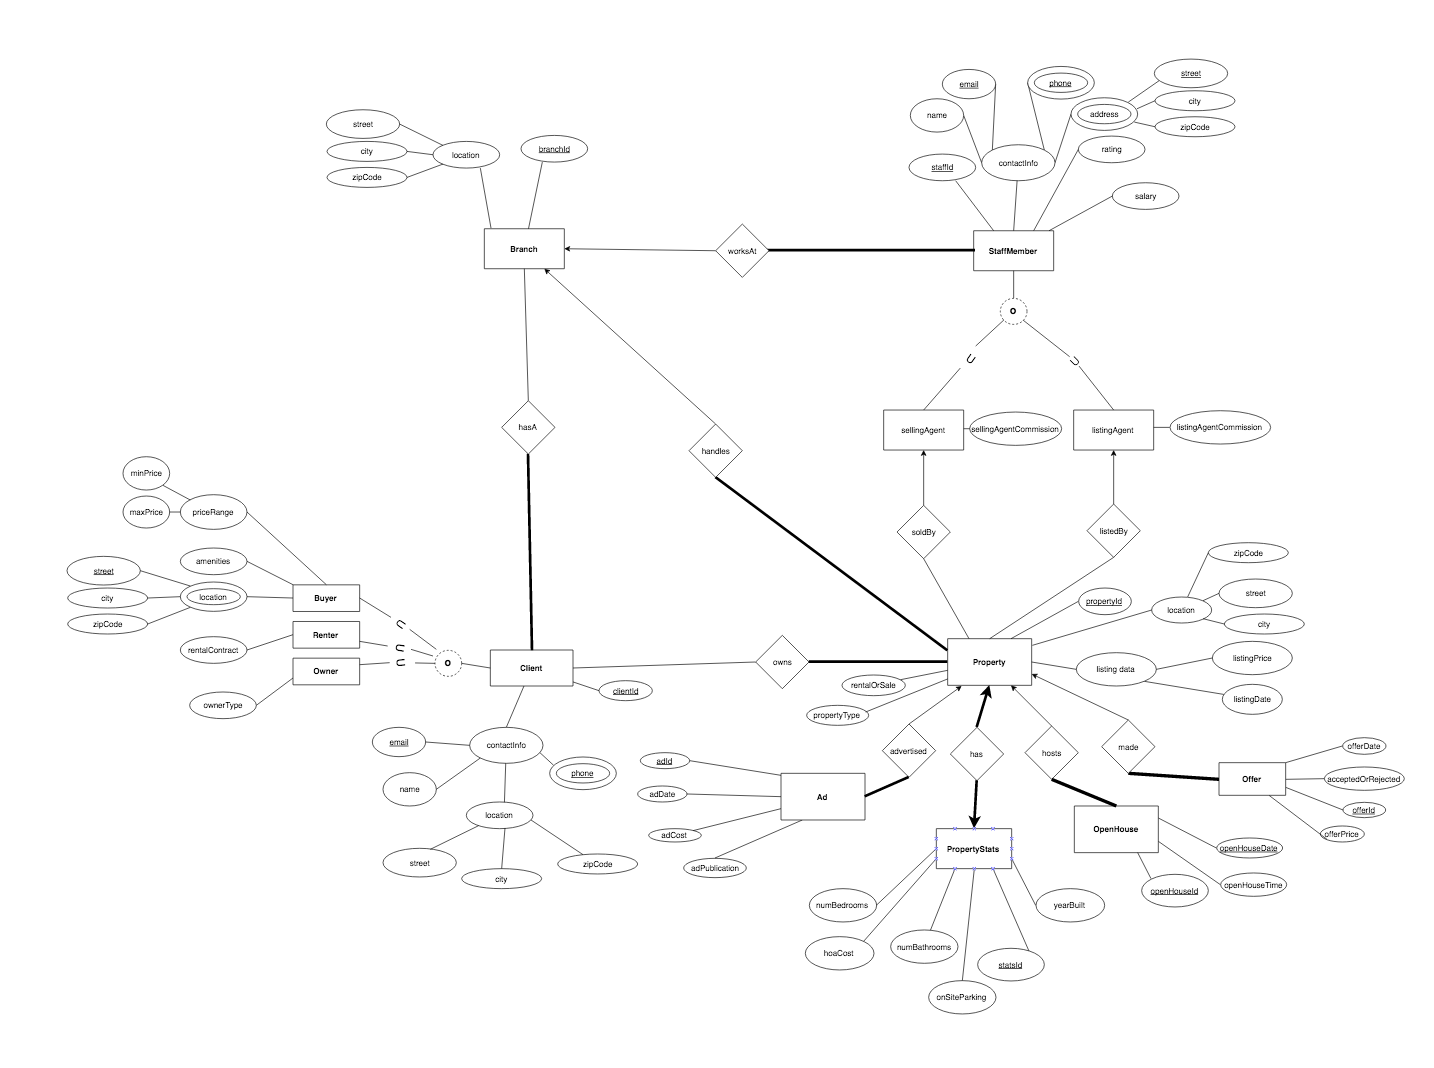
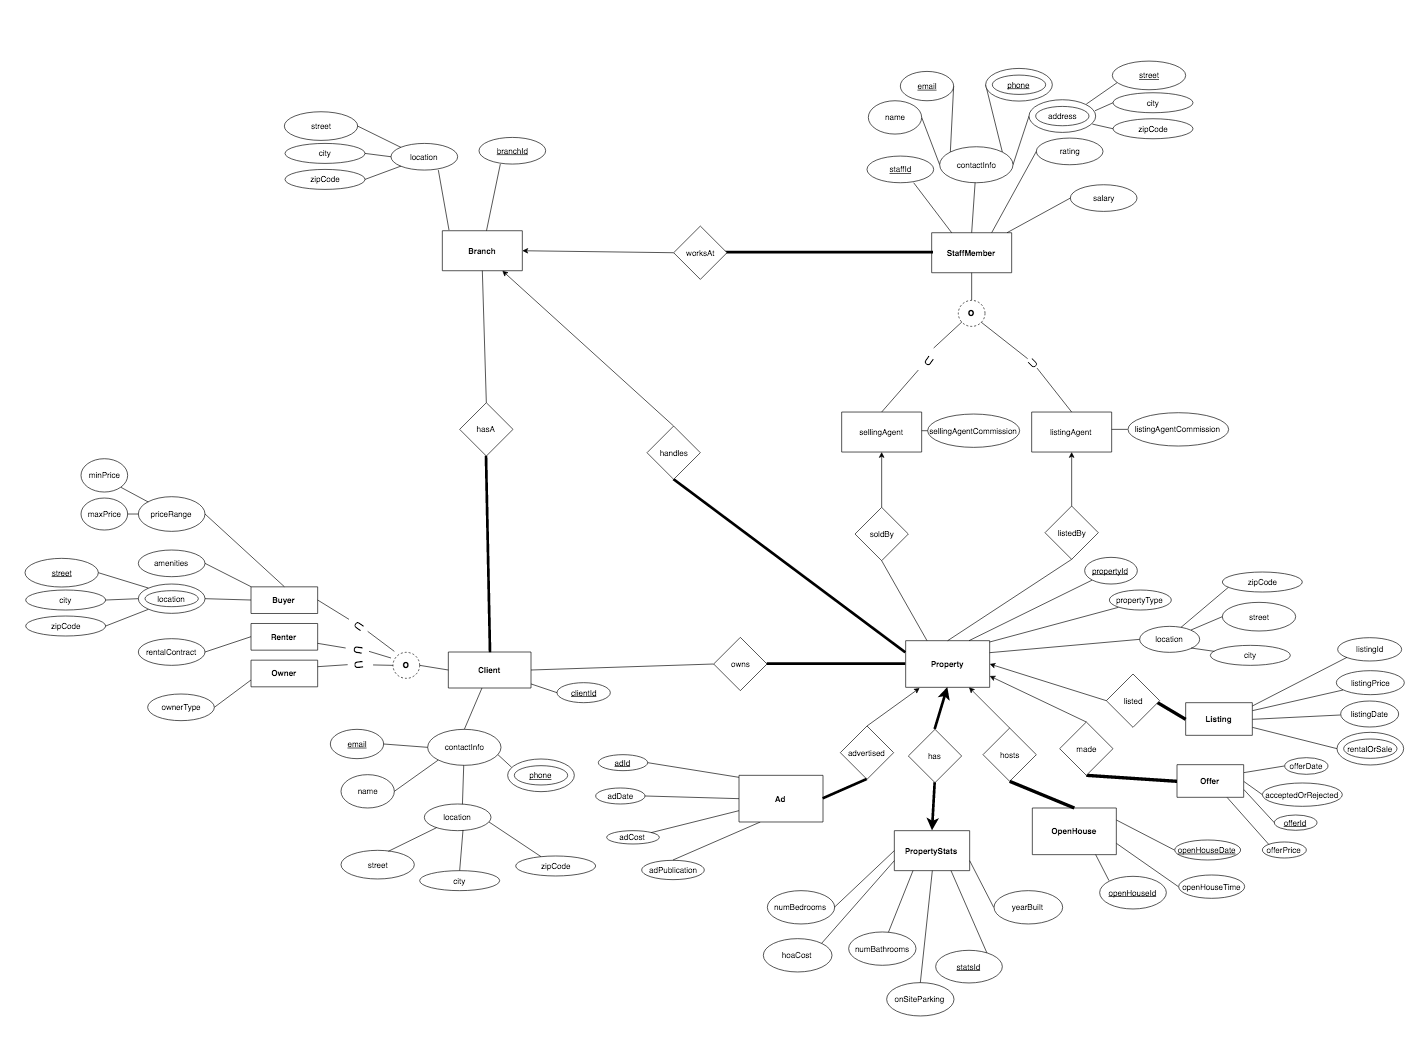
added listing entity

diff --git a/website/index.html b/website/index.html
@@ -131,6 +131,7 @@
           <li>PropertyStats has a <strong>total relationship</strong> with property because every property has property stats and all property stats have their property.</li>
           <li>OpenHouse has a <strong>total relationship</strong> with property because every open house is for a specific property</li>
           <li>Offer has a <strong>total relationship</strong> with property because every offer is for a property.</li>
+          <li>Listing has a <strong>total relationship</strong> with property because every listing is for a property.</li>
         </ul>
       </div>
     </div>
@@ -142,7 +143,7 @@
       </div>
       <div class="col-md-6">
         <h2>Business Constraints</h2>
-        <h5>Every entity (Client, Branch, StaffMember, Property, Ad, PropertyStats, OpenHouse and Offer) must have a unique integer-based ID</h5>
+        <h5>Every entity (Client, Branch, StaffMember, Property, Ad, PropertyStats, OpenHouse, Offer and Listing) must have a unique integer-based ID</h5>
         <ul class="no-list-style">
           <li>The ID is used to create relationships between entities and relationships as well as for identification purposes</li>
         </ul>
@@ -168,7 +169,7 @@
       </div>
       <div class="col-md-6">
         <h2>Business Constraints</h2>
-        <h5>Every entity (Client, Branch, StaffMember, Property, Ad, PropertyStats, OpenHouse and Offer) must have a unique integer-based ID</h5>
+        <h5>Every entity (Client, Branch, StaffMember, Property, Ad, PropertyStats, OpenHouse, Offer and Listing) must have a unique integer-based ID</h5>
         <ul class="no-list-style">
           <li>The ID is used to create relationships between entities and relationships as well as for identification purposes</li>
         </ul>
@@ -201,12 +202,11 @@
         <p><strong>Details & Clarification:</strong></p>
         <ul>
           <li>propertyType is { House, Apt, Townhome, Condo, Manufactured, Lot }</p>
-          <li>listingType is { rental, sale }</li>
         </ul>
       </div>
       <div class="col-md-6">
         <h2>Business Constraints</h2>
-        <h5>Every entity (Client, Branch, StaffMember, Property, Ad, PropertyStats, OpenHouse and Offer) must have a unique integer-based ID</h5>
+        <h5>Every entity (Client, Branch, StaffMember, Property, Ad, PropertyStats, OpenHouse, Offer and Listing) must have a unique integer-based ID</h5>
         <ul class="no-list-style">
           <li>The ID is used to create relationships between entities and relationships as well as for identification purposes</li>
         </ul>
@@ -228,7 +228,7 @@
       </div>
       <div class="col-md-6">
         <h2>Business Constraints</h2>
-        <h5>Every entity (Client, Branch, StaffMember, Property, Ad, PropertyStats, OpenHouse and Offer) must have a unique integer-based ID</h5>
+        <h5>Every entity (Client, Branch, StaffMember, Property, Ad, PropertyStats, OpenHouse, Offer and Listing) must have a unique integer-based ID</h5>
         <ul class="no-list-style">
           <li>The ID is used to create relationships between entities and relationships as well as for identification purposes</li>
         </ul>
@@ -246,7 +246,7 @@
       </div>
       <div class="col-md-6">
         <h2>Business Constraints</h2>
-        <h5>Every entity (Client, Branch, StaffMember, Property, Ad, PropertyStats, OpenHouse and Offer) must have a unique integer-based ID</h5>
+        <h5>Every entity (Client, Branch, StaffMember, Property, Ad, PropertyStats, OpenHouse, Offer and Listing) must have a unique integer-based ID</h5>
         <ul class="no-list-style">
           <li>The ID is used to create relationships between entities and relationships as well as for identification purposes</li>
         </ul>
@@ -264,7 +264,7 @@
       </div>
       <div class="col-md-6">
         <h2>Business Constraints</h2>
-        <h5>Every entity (Client, Branch, StaffMember, Property, Ad, PropertyStats, OpenHouse and Offer) must have a unique integer-based ID</h5>
+        <h5>Every entity (Client, Branch, StaffMember, Property, Ad, PropertyStats, OpenHouse, Offer and Listing) must have a unique integer-based ID</h5>
         <ul class="no-list-style">
           <li>The ID is used to create relationships between entities and relationships as well as for identification purposes.  OpenHouse also includes openHouseDate as part of its primary key to provide more information quickly</li>
         </ul>
@@ -282,13 +282,35 @@
       </div>
       <div class="col-md-6">
         <h2>Business Constraints</h2>
-        <h5>Every entity (Client, Branch, StaffMember, Property, Ad, PropertyStats, OpenHouse and Offer) must have a unique integer-based ID</h5>
+        <h5>Every entity (Client, Branch, StaffMember, Property, Ad, PropertyStats, OpenHouse, Offer and Listing) must have a unique integer-based ID</h5>
         <ul class="no-list-style">
           <li>The ID is used to create relationships between entities and relationships as well as for identification purposes</li>
         </ul>
         <h5>An offer cannot exist without a property</h5>
         <ul class="no-list-style">
           <li>Though somewhat obvious, it is an assumption of the business practice that every offer is for a certain property</li>
+        </ul>
+      </div>
+    </div>
+
+    <div id="entity-property" class="row container-fluid db-section">
+      <div class="col-md-6">
+        <h2>ER Diagram - Listing Entity</h2>
+        <a href="entity_Property.png"><img src="entity_Listing.png"></a>
+        <p><strong>Details & Clarification:</strong></p>
+        <ul>
+          <li>rentalOrSale is { rental, sale }</li>
+        </ul>
+      </div>
+      <div class="col-md-6">
+        <h2>Business Constraints</h2>
+        <h5>Every entity (Client, Branch, StaffMember, Property, Ad, PropertyStats, OpenHouse, Offer and Listing) must have a unique integer-based ID</h5>
+        <ul class="no-list-style">
+          <li>The ID is used to create relationships between entities and relationships as well as for identification purposes</li>
+        </ul>
+        <h5>A property can be listed for both rental and sale</h5>
+        <ul class="no-list-style">
+          <li>A property can be listed for rental, sale or both rental and sale</li>
         </ul>
       </div>
     </div>
@@ -300,7 +322,7 @@
       </div>
       <div class="col-md-6">
         <h2>Business Constraints</h2>
-        <h5>Every entity (Client, Branch, StaffMember, Property, Ad, PropertyStats, OpenHouse and Offer) must have a unique integer-based ID</h5>
+        <h5>Every entity (Client, Branch, StaffMember, Property, Ad, PropertyStats, OpenHouse, Offer and Listing) must have a unique integer-based ID</h5>
         <ul class="no-list-style">
           <li>The ID is used to create relationships between entities and relationships as well as for identification purposes</li>
         </ul>
@@ -335,7 +357,7 @@
       </div>
       <div class="col-md-6">
         <h2>Business Constraints</h2>
-        <h5>Every entity (Client, Branch, StaffMember, Property, Ad, PropertyStats, OpenHouse and Offer) must have a unique integer-based ID</h5>
+        <h5>Every entity (Client, Branch, StaffMember, Property, Ad, PropertyStats, OpenHouse, Offer and Listing) must have a unique integer-based ID</h5>
         <ul class="no-list-style">
           <li>The ID is used to create relationships between entities and relationships as well as for identification purposes</li>
         </ul>
@@ -396,11 +418,12 @@
         <p>sellingAgent(<strong><em>StaffId</em></strong>, sellingAgentCommission)</p>
         <p>listingAgent(<strong><em>StaffId</em></strong>, listingAgentCommission)</p>
         <p>listedBy(<strong><em>StaffId</em></strong>, <strong><em>PropertyId</em></strong>)</p>
-        <p>property(<strong>propertyId</strong>, rentalOrSale, propertyType, street, city, zipCode, listingPrice, listingDate, <em>branchId</em>)</p>
+        <p>property(<strong>propertyId</strong>, propertyType, street, city, zipCode, <em>branchId</em>)</p>
         <p>advertisement(<strong>adId</strong>, adDate, adCost, adPublication, <em>propertyId</em>)</p>
         <p>propertyStatistics(<strong>statsId</strong>, numBedrooms, hoaCost, numBathrooms, onSiteParking, yearBuilt, <em>propertyId</em>)</p>
         <p>openHouse(<strong>openHouseId</strong>, <strong>openHouseDate</strong>, openHouseTime, adPublication, <em>propertyId</em>)</p>
         <p>offersMade(<strong>offerId</strong>, offerDate, offerPrice, acceptedOrRejected, <em>propertyId</em>)</p>
+        <p>listing(<strong>listingId</strong>, listingPrice, listingDate, rentalOrSale, <em>propertyId</em>)</p>
         <p>owns(<strong><em>clientId</em></strong>, <strong><em>PropertyId</em></strong>)</p>
         <p>client(<strong>clientId</strong>, email, name, street, city, zipCode)</p>
         <p>clientPhone(<strong><em>clientId</em></strong>, <strong>phone</strong>)</p>
@@ -456,7 +479,7 @@
         <table class="table table-responsive table-hover table-striped">
           <h4>Property Types:</h4>
           <tr><td>String propertyId</td><td>first character is letter 'p' (for property), rest of characters are numbers (ten characters)</td></tr>
-          <tr><td>Char rentalOrSale</td><td>'r' for rental; 's' for sale</td></tr>
+          <tr><td>Char rentalOrSale</td><td>'r' for rental; 's' for sale; 'rs' for both</td></tr>
           <tr><td>String propertyType</td><td>set list of property types {House, Apartments, Condominium, Townhomes, Manufactured, Lots}</td></tr>
           <tr><td>String street</td><td>typically < 100 chars</td></tr>
           <tr><td>String city</td><td>typically < 25 chars</td></tr>
@@ -501,6 +524,15 @@
           <tr><td>Date offerDate</td><td>ISO Date (YYYY-MM-DD)</td></tr>
           <tr><td>Double offerPrice</td><td>listing price as a monetary value (dollars.cents)</td></tr>
           <tr><td>String acceptedOrRejected</td><td>string value either {null, accepted, rejected}</td></tr>
+          <tr><td>String propertyId</td><td>foreign key to propertyId</td></tr>
+        </table>
+
+        <table class="table table-responsive table-hover table-striped">
+          <h4>listing Types:</h4>
+          <tr><td>String listingId</td><td>first characters is 'l' (for listing), rest of characters are numbers (ten characters)</td></tr>
+          <tr><td>Double listingPrice</td><td>listing price as a monetary value (dollars.cents)</td></tr>
+          <tr><td>Date listingDate</td><td>ISO Date (YYYY-MM-DD)</td></tr>
+          <tr><td>Char rentalOrSale</td><td>'r' for rental; 's' for sale; 'rs' for both</td></tr>
           <tr><td>String propertyId</td><td>foreign key to propertyId</td></tr>
         </table>
 
